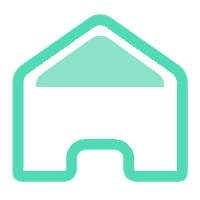
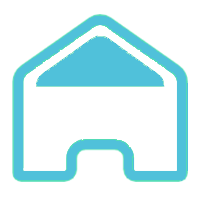
页面颜色修改

Changed region(s): [[0.06, 0.06, 0.96, 0.9], [0.18, 0.18, 0.84, 0.45]]

diff --git a/pages/index/our.vue b/pages/index/our.vue
@@ -31,7 +31,7 @@
 		<view class="list-wrap">
 			<view class="list-item" v-for="item in level_list" :key="item">
 				<view class="left">第&nbsp;{{ item }}&nbsp;层</view>
-				<view class="right">0/{{ getNum(item) }}<view class="image-arrow-right image-arrow-right-change"></view></view>
+				<view class="right" @click="$server.enterPage('our/group?level=' + item)">0/{{ getNum(item) }}<view class="image-arrow-right image-arrow-right-change"></view></view>
 			</view>
 			<view class="footer"></view>
 		</view>
@@ -94,7 +94,7 @@
 	}
 </script>
 
-<style>
+<style lang="scss">
 	.content {
 		display: flex;
 		flex-direction: column;
@@ -118,7 +118,7 @@
 		margin-top: 90rpx;
 	}
 	.our-info-wrap .our-info {
-		background-color: #50dab5;
+		background-color: $juke-main-color;
 		height: 350rpx;
 		border-radius: 20rpx;
 		margin: 20rpx;
@@ -184,7 +184,7 @@
 		width: 100%;
 		height: 83rpx;
 		line-height: 83rpx;
-		background-color: #2fbb95;
+		background-color: $juke-main-dark-color;
 		color: #ffffff;
 		font-size: 26rpx;
 	}
@@ -255,7 +255,7 @@
 		text-align: center;
 	}
 	.popup-content .mobile .text {
-		background-color: rgb(80, 218, 181);
+		background-color: $juke-main-color;
 		font-size: 24rpx;
 		color: #fff;
 		padding: 3rpx 20rpx;

diff --git a/pages/user/payinfo.vue b/pages/user/payinfo.vue
@@ -243,7 +243,7 @@
 	}
 </script>
 
-<style>
+<style lang="scss">
 	.content {
 		border-top: 2px solid #F2F6FC;
 		background-color: #efeff4;
@@ -289,7 +289,7 @@
 		margin-top: 40rpx;
 	}
 	.pay-wrap .image-wrap .image-box {
-		background-color: #2fbb95;
+		background-color: $juke-main-dark-color;
 		width: 100%;
 		height: 100%;
 		border-radius: 20rpx;
@@ -301,7 +301,7 @@
 		margin-left: 10vw;
 	}
 	.pay-wrap .upload {
-		background-color: #50dab5;
+		background-color: $juke-main-color;
 		color: white;
 		height: 80rpx;
 		line-height: 80rpx;
@@ -311,7 +311,7 @@
 		margin: 40rpx auto;
 	}
 	.pay-wrap .submit {
-		background-color: #50dab5;
+		background-color: $juke-main-color;
 		color: white;
 		height: 80rpx;
 		line-height: 80rpx;
@@ -368,7 +368,7 @@
 		padding: 20rpx 0;
 		border-bottom: 1px #999 solid;
 		font-size: 28rpx;
-		color: #24af8a;
+		color: $juke-main-dark-color;
 	}
 	.panel-info {
 		padding: 20rpx 0;
@@ -408,8 +408,8 @@
 		flex: 1;
 	}
 	.panel-info .url .copy {
-		border: 1px solid #24af8a;
-		color: #24af8a;
+		border: 1px solid $juke-main-dark-color;
+		color: $juke-main-dark-color;
 		padding: 0 20rpx;
 		height: 40rpx;
 		line-height: 40rpx;

diff --git a/pages/index/up.vue b/pages/index/up.vue
@@ -4,7 +4,7 @@
 		<view class="user-info-wrap">
 			<view class="user-info">
 				<view class="user-header">
-					<image :src="avatar" mode=""></image>
+					<image :src="avatar"></image>
 					<text>{{ userData.mobile }}({{ userData.level_name }})</text>
 				</view>
 				<view class="shouyi" @click="$server.enterPage('user/shouyi')">
@@ -88,7 +88,7 @@
 	}
 </script>
 
-<style>
+<style lang="scss">
 	.content {
 		display: flex;
 		flex-direction: column;
@@ -111,13 +111,14 @@
 		margin-top: 90rpx;
 	}
 	.user-info-wrap .user-info {
-		background-color: #2fbb95;
+		background-color: $juke-main-dark-color;
 		height: 330rpx;
 		border-radius: 20rpx;
 		margin: 20rpx;
 	}
 	.user-info-wrap .user-info .user-header {
 		font-size: 28rpx;
+		color: #fff;
 	}
 	.user-info-wrap .user-info .user-header image {
 		position: relative;
@@ -178,7 +179,7 @@
 		text-align: right;
 	}
 	.panel .item-content .item-header .status.success {
-		color: #50dab5;
+		color: $juke-main-color;
 	}
 	.panel .item-wrap {
 		display: flex;

diff --git a/pages/user/forget.vue b/pages/user/forget.vue
@@ -86,7 +86,7 @@
 	}
 </script>
 
-<style>
+<style lang="scss">
 	.content {
 		border-top: 2px solid #F2F6FC;
 		padding: 0 40rpx;
@@ -119,12 +119,12 @@
 		line-height: 60rpx;
 		font-size: 24rpx;
 		padding: 0 20rpx;
-		color: #24af8a ;
-		border: 1px solid #24af8a ;
+		color: $juke-main-dark-color ;
+		border: 1px solid $juke-main-dark-color ;
 		border-radius: 10rpx;
 	}
 	.forget-btn {
-		background-color: #50dab5;
+		background-color: $juke-main-color;
 		color: white;
 		height: 80rpx;
 		line-height: 80rpx;

diff --git a/pages/user/password.vue b/pages/user/password.vue
@@ -73,7 +73,7 @@
 	}
 </script>
 
-<style>
+<style lang="scss">
 	.content {
 		border-top: 2px solid #F2F6FC;
 		padding: 0 40rpx;
@@ -106,12 +106,12 @@
 		line-height: 60rpx;
 		font-size: 24rpx;
 		padding: 0 20rpx;
-		color: #24af8a ;
-		border: 1px solid #24af8a ;
+		color: $juke-main-dark-color ;
+		border: 1px solid $juke-main-dark-color ;
 		border-radius: 10rpx;
 	}
 	.forget-btn {
-		background-color: #50dab5;
+		background-color: $juke-main-color;
 		color: white;
 		height: 80rpx;
 		line-height: 80rpx;

diff --git a/pages/user/name.vue b/pages/user/name.vue
@@ -57,7 +57,7 @@
 	}
 </script>
 
-<style>
+<style lang="scss">
 	.content {
 		border-top: 2px solid #F2F6FC;
 		padding: 0 40rpx;
@@ -90,12 +90,12 @@
 		line-height: 60rpx;
 		font-size: 24rpx;
 		padding: 0 20rpx;
-		color: #24af8a ;
-		border: 1px solid #24af8a ;
+		color: $juke-main-dark-color ;
+		border: 1px solid $juke-main-dark-color ;
 		border-radius: 10rpx;
 	}
 	.forget-btn {
-		background-color: #50dab5;
+		background-color: $juke-main-color;
 		color: white;
 		height: 80rpx;
 		line-height: 80rpx;

diff --git a/pages/index/my.vue b/pages/index/my.vue
@@ -100,7 +100,7 @@
 	}
 </script>
 
-<style>
+<style lang="scss">
 	.content {
 		display: flex;
 		flex-direction: column;
@@ -112,7 +112,7 @@
 		position: relative;
 		width: 100%;
 		height: 210rpx;
-		background-color: #50dab5;
+		background-color: $juke-main-color;
 	}
 	.user-info .user-image {
 		width: 128rpx;
@@ -227,7 +227,7 @@
 		top: 10rpx;
 	}
 	.logout-btn {
-		background-color: #50dab5;
+		background-color: $juke-main-color;
 		color: white;
 		height: 80rpx;
 		line-height: 80rpx;

diff --git a/pages/user/personal.vue b/pages/user/personal.vue
@@ -74,7 +74,7 @@
 	}
 </script>
 
-<style>
+<style lang="scss">
 	.content {
 		border-top: 2px solid #F2F6FC;
 		padding: 0 40rpx;
@@ -112,7 +112,7 @@
 		color: #29afe4;
 	}
 	.logout-btn {
-		background-color: #50dab5;
+		background-color: $juke-main-color;
 		color: white;
 		height: 80rpx;
 		line-height: 80rpx;

diff --git a/pages/user/register.vue b/pages/user/register.vue
@@ -155,7 +155,7 @@
 	}
 </script>
 
-<style>
+<style lang="scss">
 	.content {
 		display: flex;
 		flex-direction: column;
@@ -231,7 +231,7 @@
 		margin-bottom: 20rpx;
 	}
 	.register-btn {
-		background-color: #50dab5;
+		background-color: $juke-main-color;
 		color: white;
 		height: 80rpx;
 		line-height: 80rpx;

diff --git a/pages/user/shouyi.vue b/pages/user/shouyi.vue
@@ -20,7 +20,7 @@
 	}
 </script>
 
-<style>
+<style lang="scss">
 	.content {
 		border-top: 2px solid #F2F6FC;
 		display: flex;
@@ -31,7 +31,7 @@
 	.shouyi-info {
 		width: 100%;
 		height: 260rpx;
-		background-color: #50dab5;
+		background-color: $juke-main-color;
 	}
 	.shouyi-info .money {
 		font-size: 85rpx;

diff --git a/pages/user/login.vue b/pages/user/login.vue
@@ -102,7 +102,7 @@
 	}
 </script>
 
-<style>
+<style lang="scss">
 	.content {
 		display: flex;
 		flex-direction: column;
@@ -190,7 +190,7 @@
 		margin-bottom: 20rpx;
 	}
 	.login-btn {
-		background-color: #50dab5;
+		background-color: $juke-main-color;
 		color: white;
 		height: 80rpx;
 		line-height: 80rpx;

diff --git a/uni.scss b/uni.scss
@@ -13,6 +13,8 @@
  */
 
 /* 颜色变量 */
+$juke-main-color: #50c1da;
+$juke-main-dark-color: #30a9c4;
 
 /* 行为相关颜色 */
 $uni-color-primary: #007aff;
